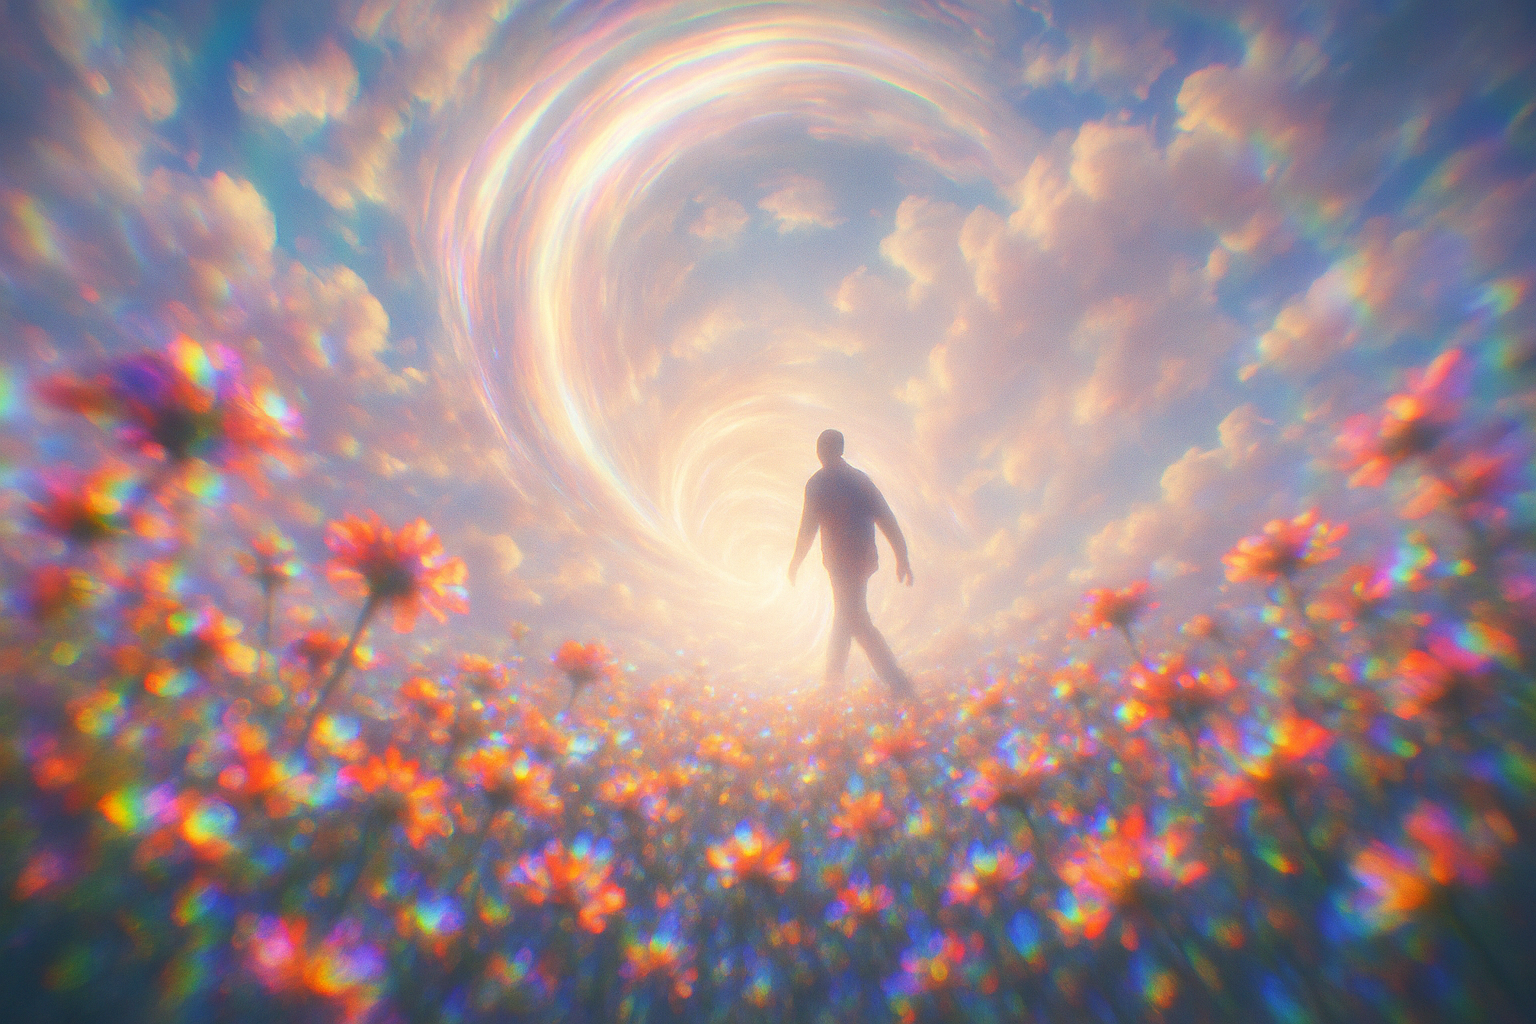
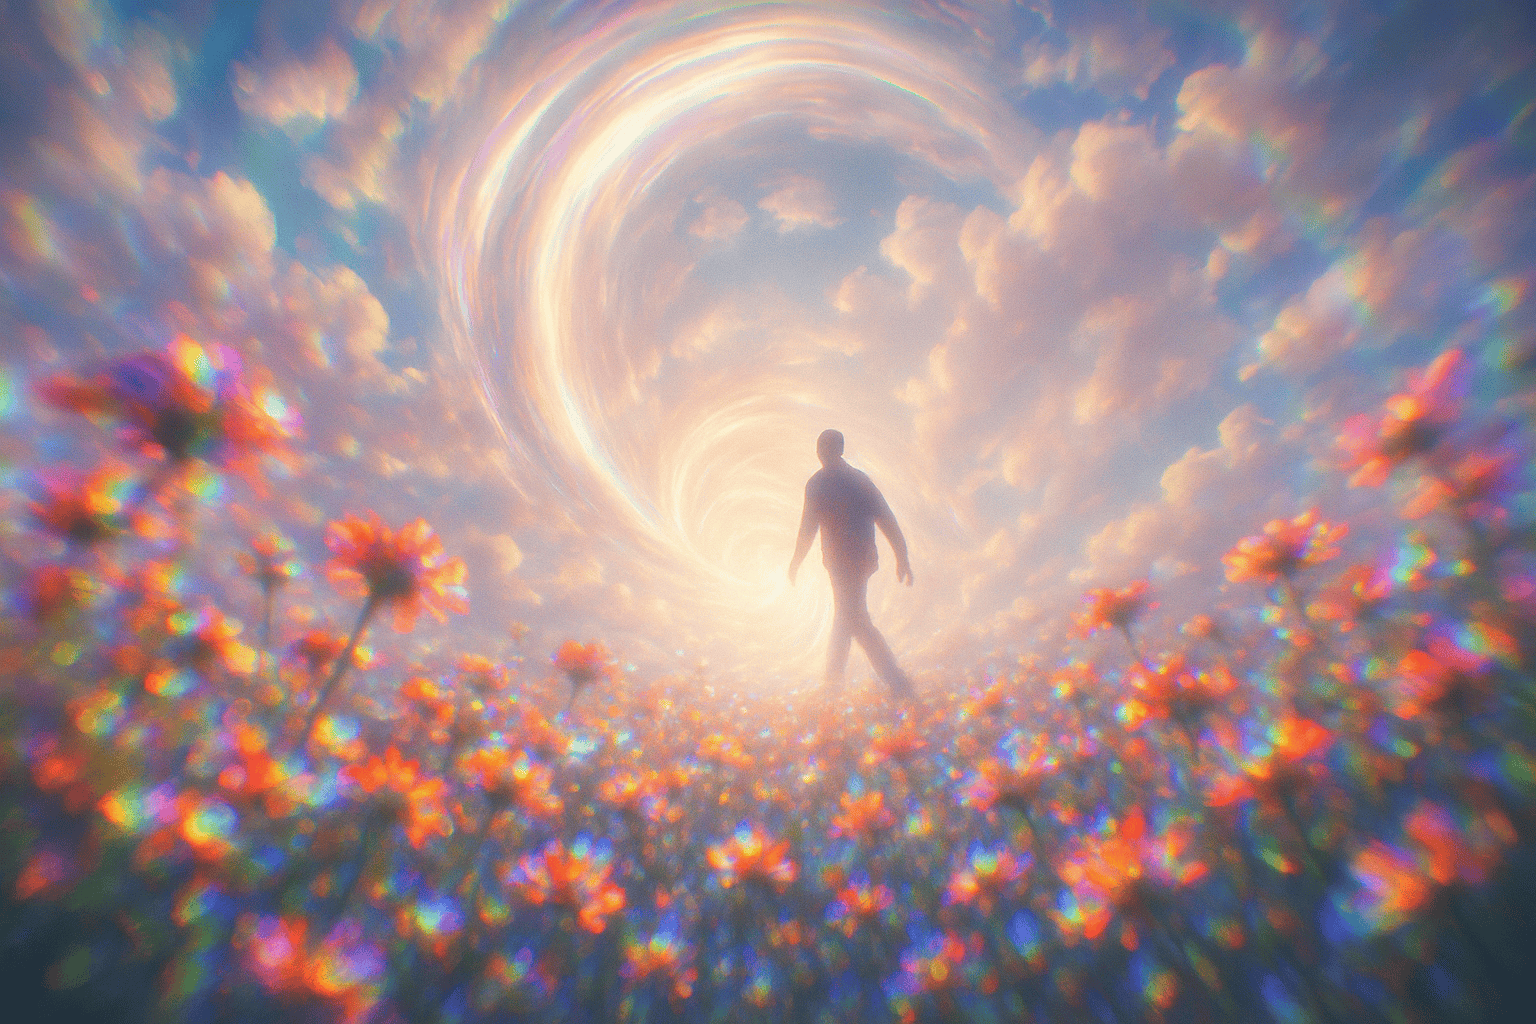
feat: Update wallpaper images and restructure navbar navigation, including a new Manifesto link, while also adjusting pricing page styling.

diff --git a/apps/web/src/components/navigation/Navbar.tsx b/apps/web/src/components/navigation/Navbar.tsx
@@ -47,11 +47,12 @@ export default function Navbar() {
   // Define navbar items - can be single links or dropdown menus
   const navbarItems = [
     { type: "dropdown", label: "Product", menu: "product" },
-    { type: "dropdown", label: "Resources", menu: "resources" },
     { type: "link", label: "Pricing", href: "/pricing" },
-    { type: "link", label: "Download", href: "/download" },
-    { type: "dropdown", label: "Company", menu: "company" },
-    { type: "dropdown", label: "Socials", menu: "socials" },
+    { type: "link", label: "Manifesto", href: "/manifesto" },
+    { type: "dropdown", label: "Resources", menu: "resources" },
+    // { type: "link", label: "Download", href: "/download" },
+    // { type: "dropdown", label: "Company", menu: "company" },
+    // { type: "dropdown", label: "Socials", menu: "socials" },
   ] as const;
 
   // Function to control backdrop blur

diff --git a/apps/web/src/features/pricing/components/PricingPage.tsx b/apps/web/src/features/pricing/components/PricingPage.tsx
@@ -44,7 +44,7 @@ export default function PricingPage({ initialPlans = [] }: PricingPageProps) {
         <div className="pointer-events-none absolute inset-x-0 bottom-0 h-[40vh] bg-linear-to-t from-background via-background to-transparent" />
       </div>
 
-      <div className="relative z-[1] flex flex-col items-center gap-2">
+      <div className="relative z-1 flex flex-col items-center gap-2">
         <div className="flex w-full flex-col items-center justify-center gap-3 text-white">
           <h1 className="font-serif text-8xl font-normal">Level Up</h1>
           <span className="text-xl font-light text-zinc-300">
